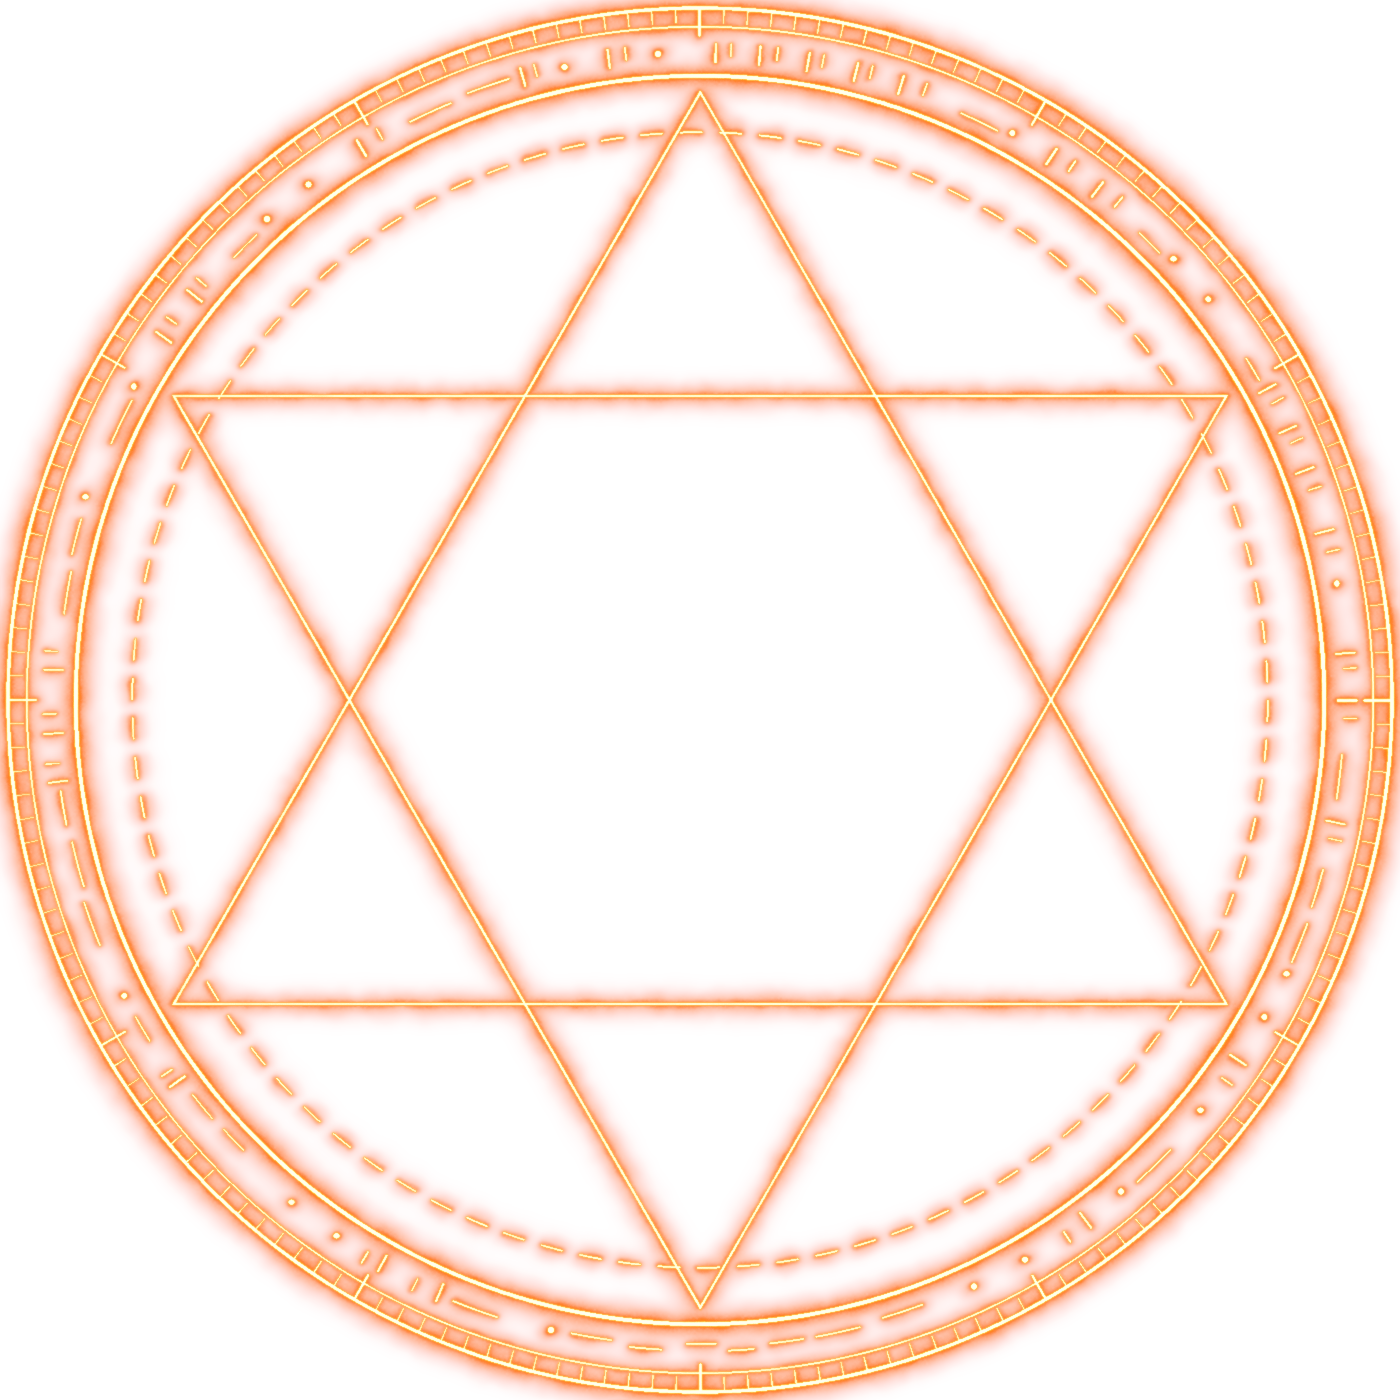
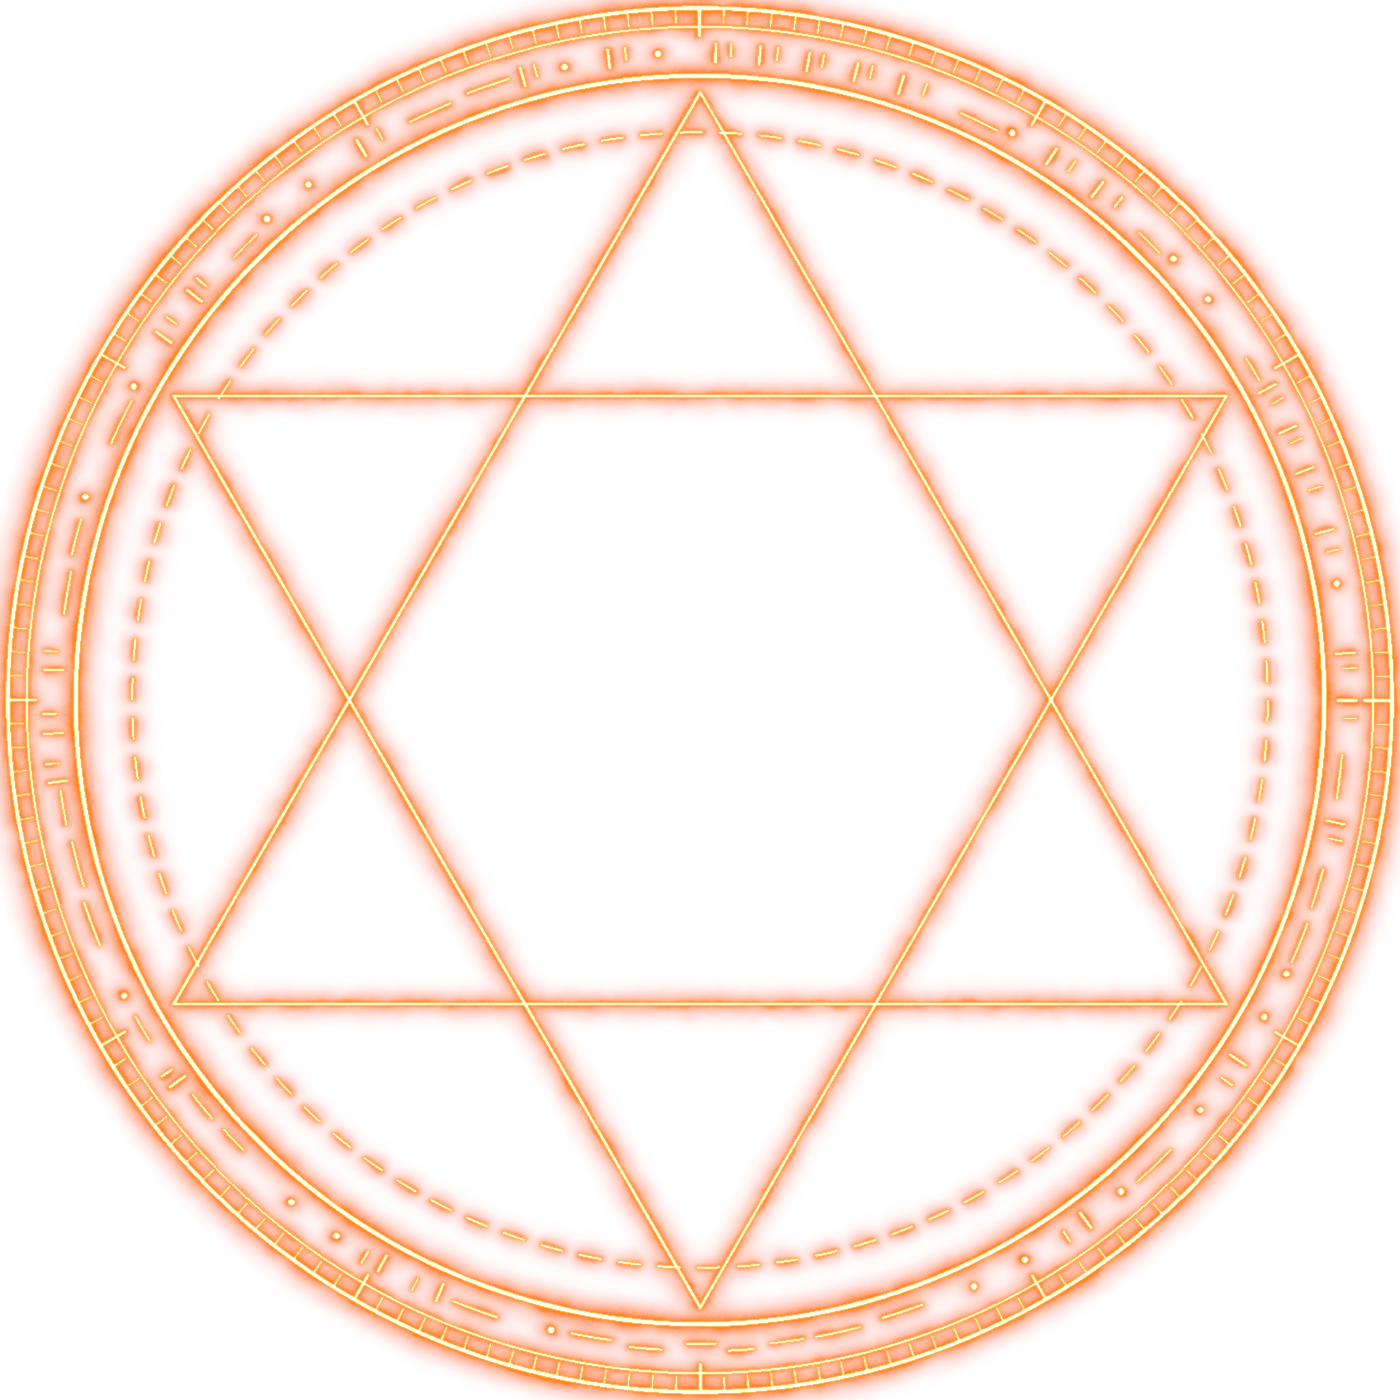
feat(optics): リザルト背景魔法陣の配色切り替え（rainbow/cooldown/gold）とSSR虹色維持の適用

diff --git a/compositions/scene-result.html b/compositions/scene-result.html
@@ -9,7 +9,8 @@
     {"id":"rarity","type":"string","label":"Rarity","default":""},
     {"id":"attributeBadge","type":"string","label":"Attribute Badge (1 char)","default":""},
     {"id":"attributeLabel","type":"string","label":"Attribute Label","default":""},
-    {"id":"flavor","type":"string","label":"Flavor Text","default":""}
+    {"id":"flavor","type":"string","label":"Flavor Text","default":""},
+    {"id":"resultRingMode","type":"string","label":"Result Ring Mode (rainbow | cooldown | gold)","default":""}
   ]'
 >
   <head>
@@ -36,7 +37,12 @@
         <div id="result-rays-a" class="result-rays-layer" data-layout-allow-overflow></div>
         <div id="result-rays-b" class="result-rays-layer" data-layout-allow-overflow></div>
         <div id="result-halo" data-layout-allow-overflow></div>
-        <div id="result-bg-ring" data-layout-allow-overflow></div>
+        <div id="result-halo-blue" data-layout-allow-overflow></div>
+        <div id="result-bg-ring" data-layout-allow-overflow>
+          <div id="result-ring-rainbow" class="result-ring-layer" data-layout-allow-overflow></div>
+          <div id="result-ring-gold" class="result-ring-layer" data-layout-allow-overflow></div>
+          <div id="result-ring-blue" class="result-ring-layer" data-layout-allow-overflow></div>
+        </div>
         <div id="result-grain" class="film-grain-overlay" data-layout-allow-overflow></div>
         <div id="bokeh-back-layer" data-layout-allow-overflow></div>
         <div id="landing-shockwave" data-layout-allow-overflow></div>
@@ -138,6 +144,23 @@
         tl.fromTo("#result-rays-a", { rotation: 0, opacity: 0.22 }, { rotation: 38, opacity: 0.56, duration: 4.85, ease: "power2.out" }, at(7.10));
         tl.fromTo("#result-rays-b", { rotation: 12, opacity: 0.16 }, { rotation: -24, opacity: 0.44, duration: 4.85, ease: "power2.out" }, at(7.10));
         tl.fromTo("#result-bg-ring", { rotation: -38, scale: 0.86, opacity: 0 }, { rotation: 0, scale: 1.0, opacity: 0.56, duration: 4.85, ease: "power2.out" }, at(7.10));
+        if (st.resultRingMode === "rainbow") {
+          tl.set("#result-ring-rainbow", { opacity: 1 }, 0);
+          tl.set("#result-ring-gold, #result-ring-blue, #result-halo-blue", { opacity: 0 }, 0);
+        } else if (st.resultRingMode === "gold") {
+          tl.set("#result-ring-gold", { opacity: 1 }, 0);
+          tl.set("#result-ring-rainbow, #result-ring-blue, #result-halo-blue", { opacity: 0 }, 0);
+        } else {
+          // 案B-2 ("cooldown"): 虹 (7.10s..9.30s) -> 赤金 (9.30s..10.80s) -> 青系へ鎮静 (10.80s..13.50s / 全体14.00sで完全青定着)
+          tl.set("#result-ring-rainbow", { opacity: 1 }, 0);
+          tl.set("#result-ring-gold, #result-ring-blue, #result-halo-blue", { opacity: 0 }, 0);
+          tl.to("#result-ring-rainbow", { opacity: 0, duration: 1.50, ease: "sine.inOut" }, at(9.30));
+          tl.to("#result-ring-gold", { opacity: 1, duration: 1.50, ease: "sine.inOut" }, at(9.30));
+          tl.to("#result-ring-gold", { opacity: 0, duration: 2.70, ease: "sine.inOut" }, at(10.80));
+          tl.to("#result-ring-blue", { opacity: 1, duration: 2.70, ease: "sine.inOut" }, at(10.80));
+          tl.to("#result-halo", { opacity: 0.25, duration: 2.70, ease: "sine.inOut" }, at(10.80));
+          tl.to("#result-halo-blue", { opacity: 0.85, duration: 2.70, ease: "sine.inOut" }, at(10.80));
+        }
         tl.fromTo("#card-stage", { opacity: 0 }, { opacity: 1, duration: 0.18, ease: "power2.out" }, at(7.10));
 
         // 3D Card Spin & Landing (7.12s -> 8.88s, hard stop at 8.68s)
@@ -267,7 +290,11 @@
         tl.to("#frame-rim-glare", { opacity: 0.96, duration: 0.16, ease: "power2.out" }, at(12.95));
         tl.to("#frame-rim-glare", { opacity: 0, duration: 0.22, ease: "power2.in" }, at(13.63));
         tl.to("#holo-static-sheen", { opacity: 0.96, duration: 1.5, ease: "sine.inOut", yoyo: true, repeat: 1 }, at(12.0));
-        tl.to("#result-halo", { opacity: 0.76, duration: 1.5, ease: "sine.inOut", yoyo: true, repeat: 1 }, at(12.0));
+        if (st.resultRingMode !== "cooldown") {
+          tl.to("#result-halo", { opacity: 0.76, duration: 1.5, ease: "sine.inOut", yoyo: true, repeat: 1 }, at(12.0));
+        } else {
+          tl.to("#result-halo-blue", { opacity: 0.96, duration: 0.75, ease: "sine.inOut", yoyo: true, repeat: 1 }, at(13.50));
+        }
         tl.to("#result-rays-a", { opacity: 0.42, duration: 1.5, ease: "sine.inOut", yoyo: true, repeat: 1 }, at(12.0));
         tl.to("#result-rays-b", { opacity: 0.62, duration: 1.5, ease: "sine.inOut", yoyo: true, repeat: 1 }, at(12.0));
         tl.to("#result-bg-ring", { opacity: 0.72, duration: 1.5, ease: "sine.inOut", yoyo: true, repeat: 1 }, at(12.0));

diff --git a/compositions/scene-result.css b/compositions/scene-result.css
@@ -33,7 +33,8 @@
   background-image: url("../assets/generated/opt_godrays_gold_b.png");
 }
 
-#result-halo {
+#result-halo,
+#result-halo-blue {
   position: absolute;
   left: 50%;
   top: 49%;
@@ -42,11 +43,25 @@
   margin-left: -620px;
   margin-top: -620px;
   mix-blend-mode: screen;
+}
+
+#result-halo {
   background: radial-gradient(
     circle closest-side var(--in-oklab),
     rgba(242, 223, 179, 0.44) 0%,
     rgba(232, 141, 180, 0.20) 46%,
     rgba(118, 212, 238, 0.11) 68%,
+    transparent 98%
+  );
+}
+
+#result-halo-blue {
+  opacity: 0;
+  background: radial-gradient(
+    circle closest-side var(--in-oklab),
+    rgba(130, 216, 255, 0.42) 0%,
+    rgba(56, 134, 235, 0.24) 46%,
+    rgba(22, 62, 168, 0.12) 70%,
     transparent 98%
   );
 }
@@ -61,10 +76,28 @@
   margin-top: -850px;
   opacity: 0;
   mix-blend-mode: screen;
-  background-image: url("../assets/generated/opt_result_ring.png");
+}
+
+.result-ring-layer {
+  position: absolute;
+  inset: 0;
   background-size: contain;
   background-repeat: no-repeat;
   background-position: center;
+  mix-blend-mode: screen;
+  opacity: 0;
+}
+
+#result-ring-rainbow {
+  background-image: url("../assets/generated/opt_result_ring_rainbow.png");
+}
+
+#result-ring-gold {
+  background-image: url("../assets/generated/opt_result_ring_gold.png");
+}
+
+#result-ring-blue {
+  background-image: url("../assets/generated/opt_result_ring_blue.png");
 }
 
 /* 遠景ボケ光粒レイヤー（カード背面） */

diff --git a/compositions/scene-result-setup.js b/compositions/scene-result-setup.js
@@ -49,6 +49,9 @@
     return b ? b + " / " + legacy : legacy;
   }
 
+  const rawRingMode = pick(hfVars.resultRingMode, baseCfg.resultRingMode, "rainbow");
+  const resultRingMode = rawRingMode === "cooldown" || rawRingMode === "gold" ? rawRingMode : "rainbow";
+
   const cfg = {
     photo: pick(hfVars.photo, baseCfg.photo, "assets/photo.jpg"),
     photoFit: baseCfg.photoFit || "cover",
@@ -375,6 +378,7 @@
   window.SSR_RESULT_STATE = {
     at: at,
     cfg: cfg,
+    resultRingMode: resultRingMode,
     typoLayout: typoLayout,
     hasRoyalRule: hasRoyalRule,
     titleWipeHalf: titleWipeHalf,

diff --git a/card-config.js b/card-config.js
@@ -71,6 +71,9 @@ window.SSR_CARD_CONFIG = {
     magicCircleRingRatios: [1.0, -1.3, 1.7], // [外周, 中段, 内周] の相対倍率（負値で逆回転）
   },
 
+  // リザルト背景魔法陣の配色モード（"rainbow" = 虹色維持[既定] | "cooldown" = 虹→赤金→青系クールダウン | "gold" = 従来赤金）
+  resultRingMode: "rainbow",
+
   // パーティクル配置用の決定論シード値（数値を変えると星屑や紙吹雪の配置パターンが変化）
   seed: 20261120,
 };

diff --git a/index.html b/index.html
@@ -7,7 +7,8 @@
     {"id":"title","type":"string","label":"Card Title","default":""},
     {"id":"subtitle","type":"string","label":"Card Subtitle","default":""},
     {"id":"rarity","type":"string","label":"Rarity","default":""},
-    {"id":"flavor","type":"string","label":"Flavor Text","default":""}
+    {"id":"flavor","type":"string","label":"Flavor Text","default":""},
+    {"id":"resultRingMode","type":"string","label":"Result Ring Mode (rainbow | cooldown | gold)","default":""}
   ]'
 >
   <head>

diff --git a/scripts/render_optics.py b/scripts/render_optics.py
@@ -1063,6 +1063,7 @@ def main() -> None:
             "outer": ex.submit(prepare_optical_mask, g_outer, 20.0),
             "inner": ex.submit(prepare_optical_mask, g_inner, 20.0),
         }
+        prep_ring_fut = ex.submit(prepare_optical_mask, ring_mask, 14.0)
         rings = [
             ("outer", m_outer, prep_mc["outer"].result()),
             ("mid",   m_mid,   prep_mc["mid"].result()),
@@ -1072,6 +1073,7 @@ def main() -> None:
             ("outer", g_outer, prep_gate["outer"].result()),
             ("inner", g_inner, prep_gate["inner"].result()),
         ]
+        prep_ring = prep_ring_fut.result()
 
         # マルチスレッド並列レンダリング＆保存タスクの構築（NumPy/SciPy/Pillow の GIL 解放を活用）
         tasks = []
@@ -1200,8 +1202,39 @@ def main() -> None:
         ]):
             submit_glow(ex, f"opt_sparkle_{cname}.png", sp_mask, spec, 16.0, 1.15, cg * 1.15, hal * 1.05, irr * 0.70, False, seed + 901 + i * 31)
 
-        # 8. リザルト背景の光学魔法リング
-        submit_glow(ex, "opt_result_ring.png", ring_mask, "summon_gold", 14.0, 0.95, cg, hal * 1.15, irr, False, seed + 1201)
+        # 8. リザルト背景の光学魔法リング（3色: rainbow / gold / blue + 後方互換 opt_result_ring.png）
+        ring_styles = [
+            ("rainbow", "summon_gold", True,  1.08, hal * 1.20),
+            ("gold",    "summon_gold", False, 0.95, hal * 1.15),
+            ("blue",    "summon_blue", False, 1.00, hal * 1.12),
+        ]
+        for r_idx, (r_cname, r_spec, r_prism, r_exp, r_hal) in enumerate(ring_styles):
+            def _res_ring_job(
+                cn: str = r_cname,
+                sp: str = r_spec,
+                pr: bool = r_prism,
+                ex_v: float = r_exp,
+                ha_v: float = r_hal,
+                s_off: int = r_idx * 41,
+            ) -> str:
+                img = render_optical_glow(
+                    mask_l=ring_mask,
+                    spectrum_name=sp,
+                    ref_scale=14.0,
+                    exposure=ex_v,
+                    core_glow=cg,
+                    halation=ha_v,
+                    irregularity=irr,
+                    prism_mode=pr,
+                    seed=seed + 1201 + s_off,
+                    prepared=prep_ring,
+                )
+                save_png(img, OUT_DIR / f"opt_result_ring_{cn}.png")
+                if cn == "gold":
+                    save_png(img, OUT_DIR / "opt_result_ring.png")
+                return f"[OK] opt_result_ring_{cn}.png ({img.width}x{img.height})"
+
+            tasks.append(ex.submit(_res_ring_job))
 
         # 9. 玉ボケ光粒
         def _bokeh_job() -> str:
